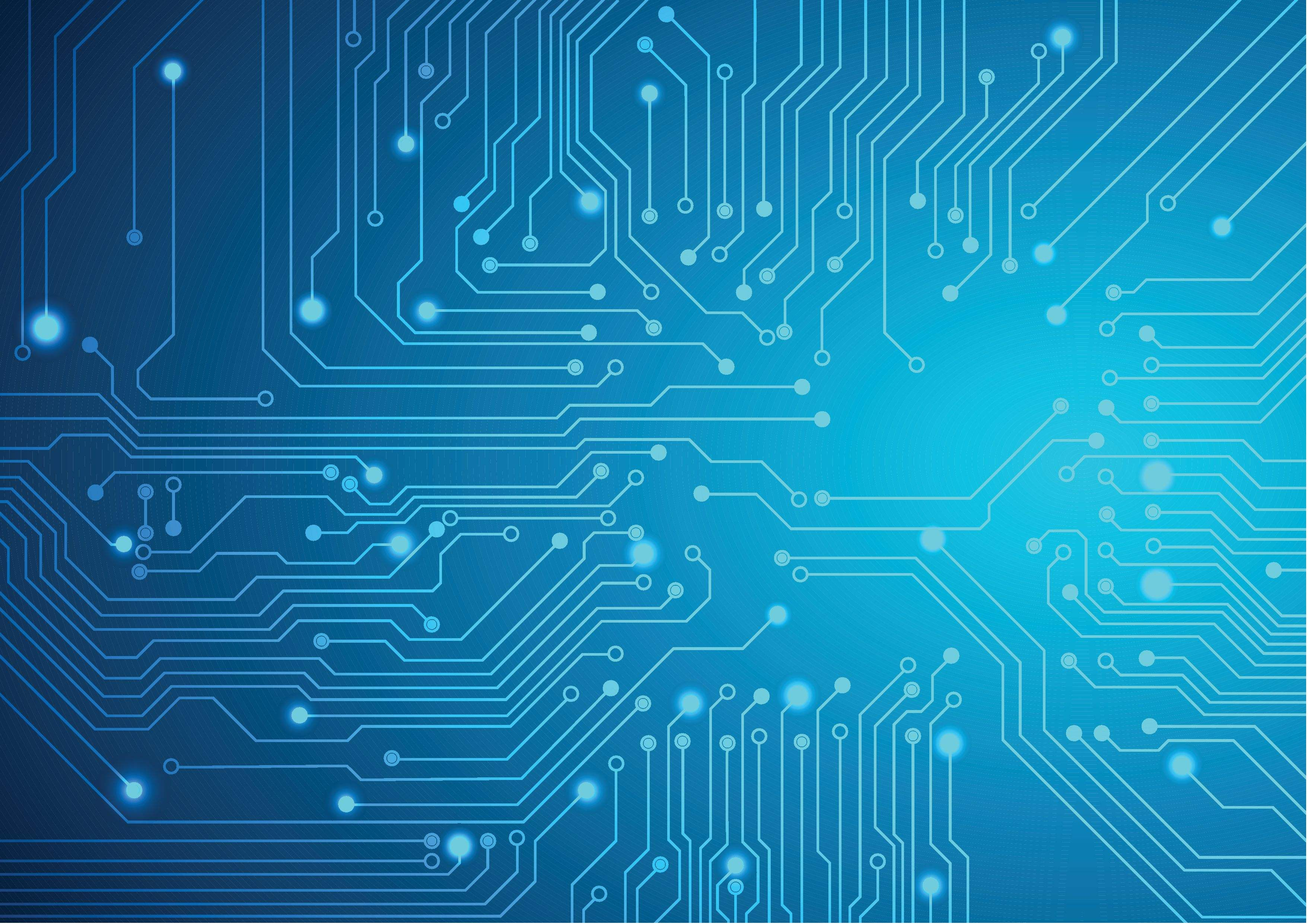
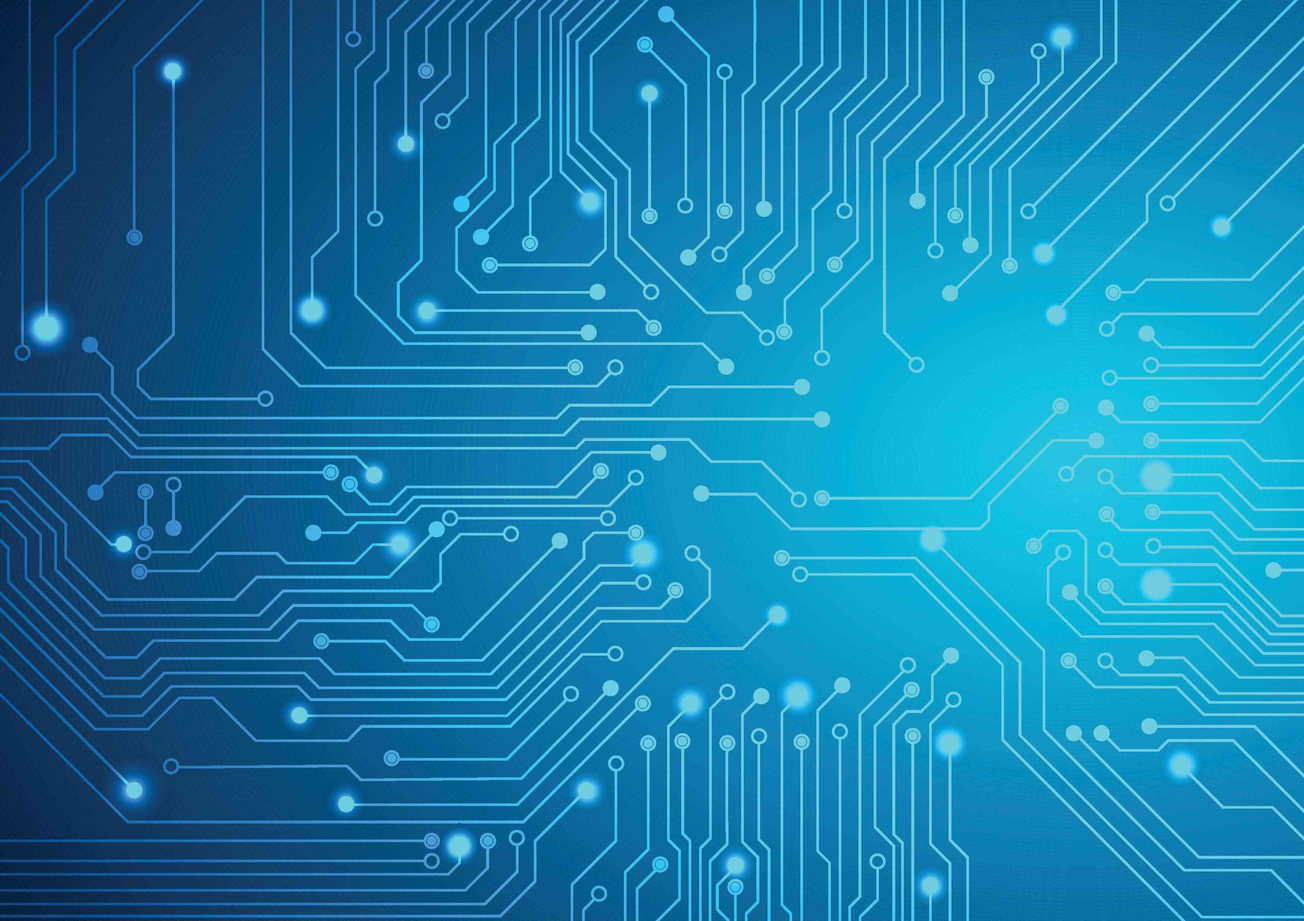
fix log bg

diff --git a/src/assets/static/adminlteiframe/css/login.css b/src/assets/static/adminlteiframe/css/login.css
@@ -50,7 +50,9 @@ body {
     background: url(../img/login-bg3.jpg) no-repeat center center;
     background-color: #3c8dbc;
     min-height: 100vh;
-    background-size: 100%;
+    -moz-background-size: cover;
+    background-size: cover;
+    height: 100vh !important;
 }
 
 .ali-form-layout .form-control {
